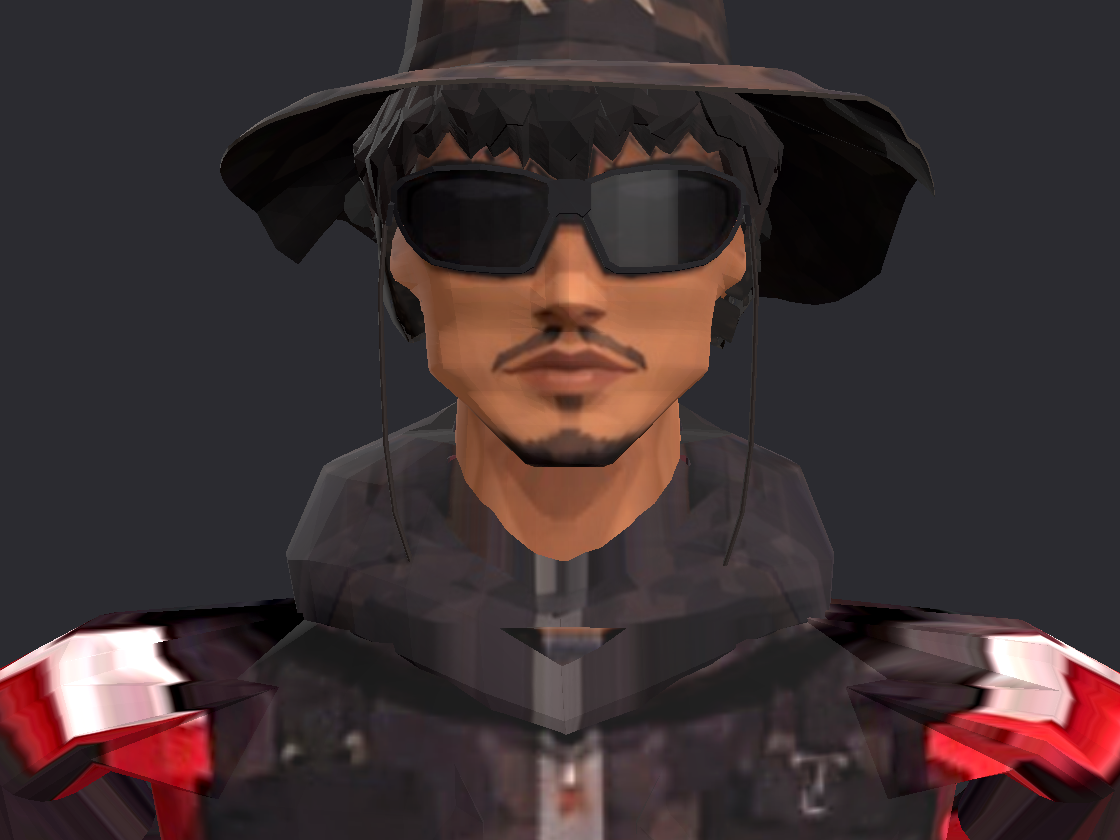
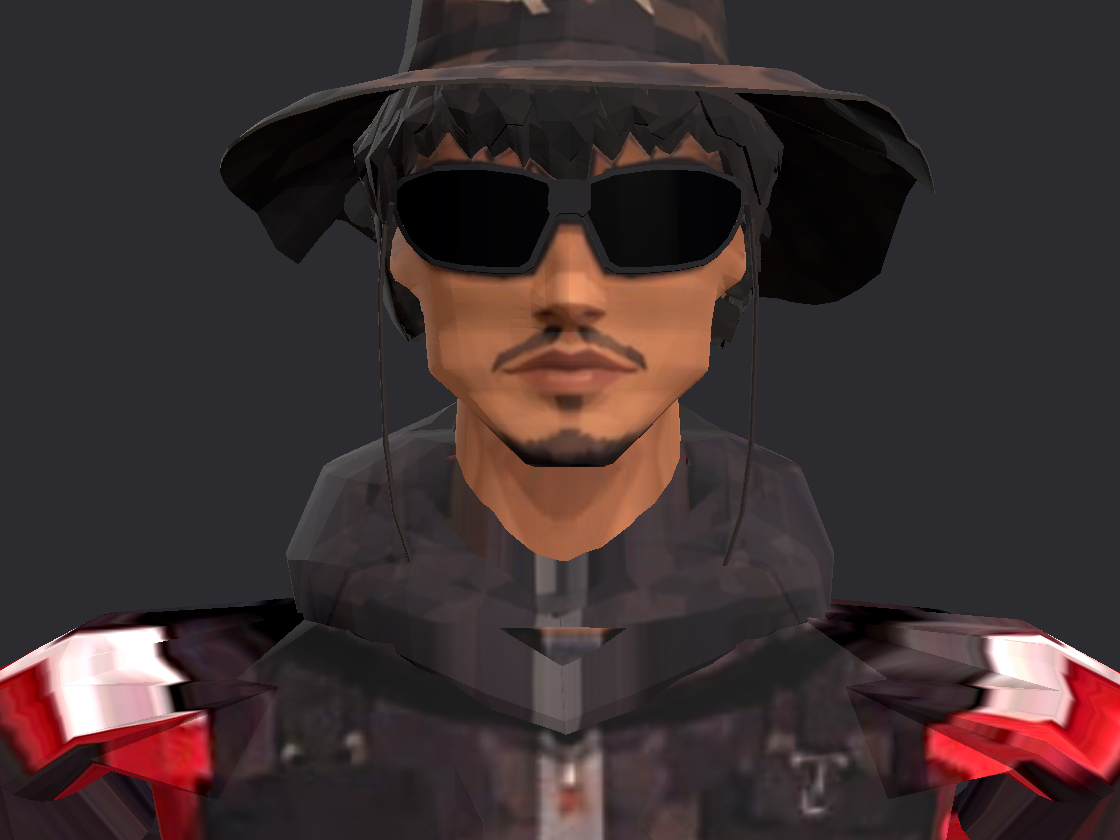
Ajusta lentes dos oculos e adiciona vistas dos pes
Lentes Fume passam a usar preto brilhante em tempo de execucao, como na
referencia. Confere sola branca do tenis. Adiciona vistas feet_front e
feet_side ao render e atualiza o VALIDACAO_REFERENCIA.md.

Claude-Session: https://claude.ai/code/session_01SbPjzQDrXqmreyexuEKpnZ

Changed region(s): [[0.4062, 0.1857, 0.6562, 0.3405]]

diff --git a/VALIDACAO_REFERENCIA.md b/VALIDACAO_REFERENCIA.md
@@ -96,3 +96,10 @@ Nenhuma alteração de malha, osso ou textura foi feita nesta etapa. Este commit
 - Aplicada no material `Pescador` (corpo) e no `ShoulderCloth` (ombros, pelo shader).
 - Renders: o padrão vermelho e branco dos ombros ficou mais nítido, e o camuflado ganhou contraste. O corpo continua escuro, como na referência.
 - Ainda não verificado: os óculos (material `Lentes fumê`) e a sola branca do tênis. Ficaram para a próxima etapa.
+
+## Óculos e tênis (etapa 7)
+
+- Óculos (`Lentes fumê`): o material usava a textura `Rosto`, que dava um cinza com reflexo fraco. Agora, em tempo de execução, as lentes usam cor preta (0,03), rugosidade 0,12 e especularidade metálica 0,8, o que dá o preto brilhante da referência. Verificado no close-up da frente.
+- Tênis: a sola branca nas bordas aparece nos renders das vistas dos pés. Confere com a referência. Nenhuma alteração foi feita.
+- Novas vistas `feet_front` e `feet_side` adicionadas a `validacao/render_views.gd`.
+- Diferença observada: a calça tem manchas de camuflagem mais evidentes que a calça preta cargo da referência. Não foi corrigida nesta etapa.
